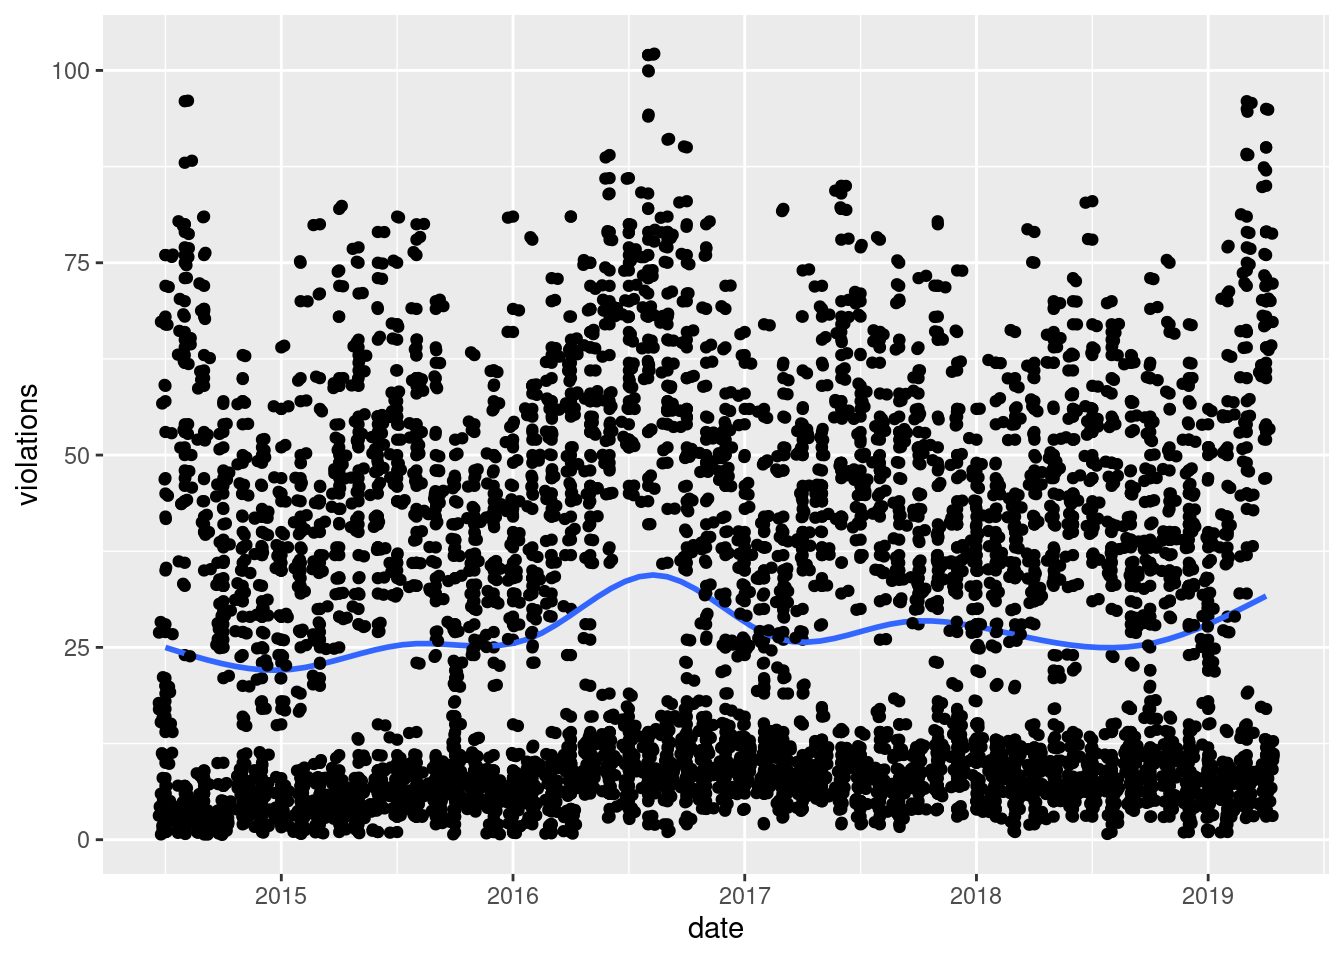
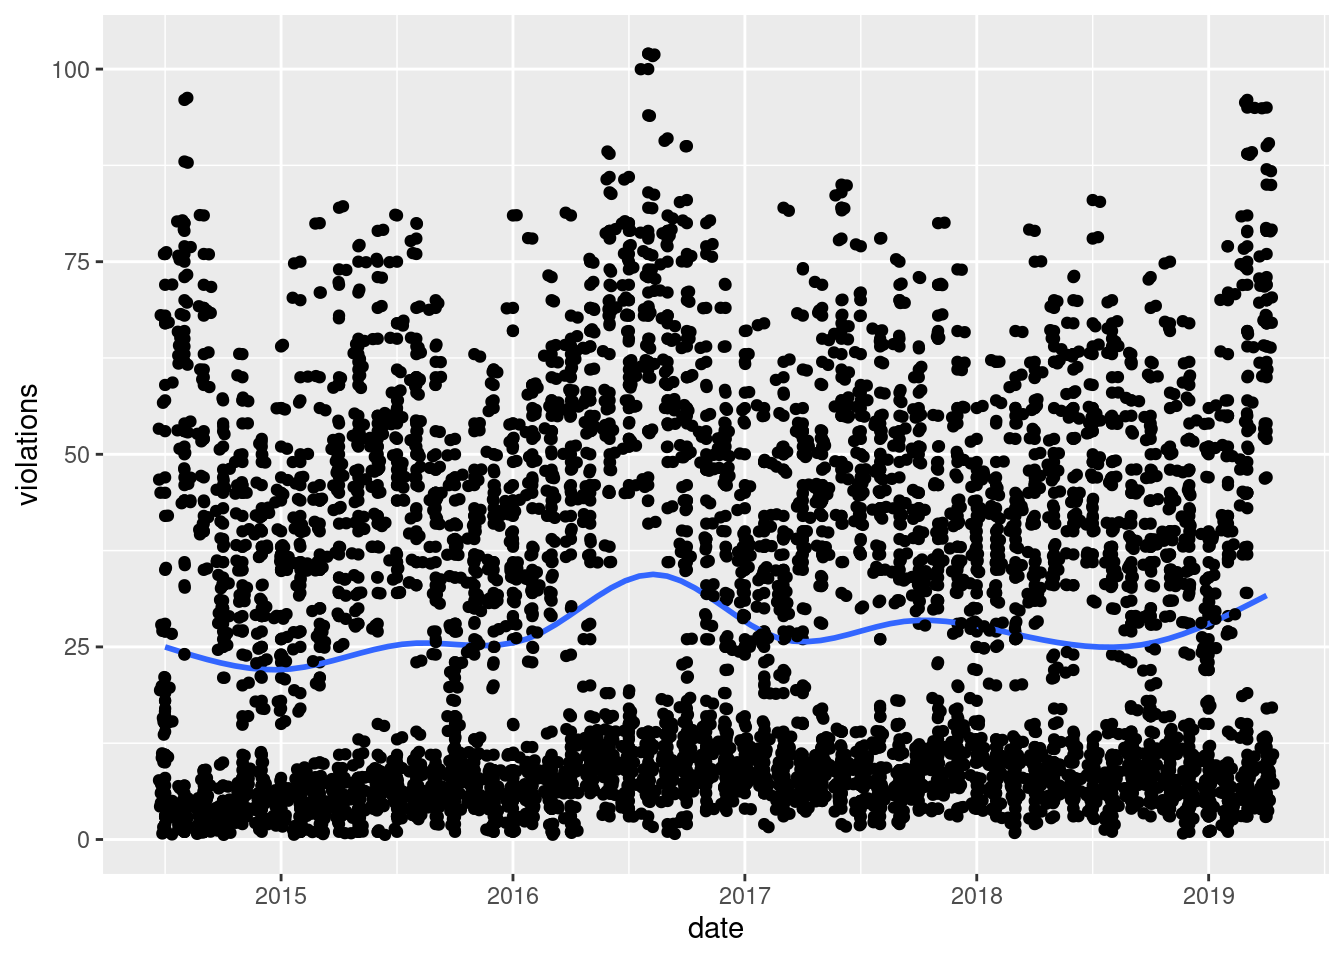
clean up

diff --git a/layouts/partials/head.html b/layouts/partials/head.html
@@ -16,7 +16,4 @@
   <!-- headroom.js -->
   {{ $mainJs := resources.Get "js/main.js" | js.Build "main.js" | minify | fingerprint }}
   <script src="{{ $mainJs.RelPermalink }}" type="text/javascript"></script>
-  <!-- goatcounter -->
-  <script data-goatcounter="https://alison.goatcounter.com/count"
-        async src="//gc.zgo.at/count.js"></script>
 </head>
